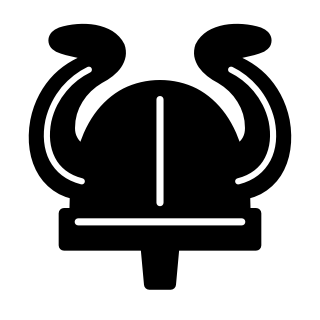
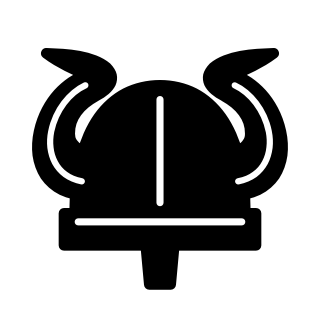
Art: shorter chariot pole and cavalry pennant, pointed berserker horns; round 14 options

diff --git a/art/source/piece_options/round14/make_round14.py b/art/source/piece_options/round14/make_round14.py
@@ -1,0 +1,85 @@
+"""Round 14 art options from Mac's reference pictures (white versions, for choosing).
+
+Necromancer: a round skull (reference 1) and a horned, angry skull (reference 5).
+Rogue: a pointed hood over a cloak split at the bottom (reference 2).
+Ram: a ram's head with a big ridged horn curling round the ear (references 3 and 4),
+on the Cburnett knight's body.  Run from this folder:  python make_round14.py
+"""
+import io
+
+HEAD = '<svg xmlns="http://www.w3.org/2000/svg" width="45" height="45" viewBox="0 0 45 45"><g stroke="#000" stroke-width="1.5" stroke-linecap="round" stroke-linejoin="round" fill="#fff">'
+TAIL = "</g></svg>\n"
+
+def mirror(body):
+    return '<g transform="translate(45,0) scale(-1,1)">%s</g>' % body
+
+OPTIONS = {}
+
+# --- Necromancer -----------------------------------------------------------------------
+ROUND_SKULL = ('<path d="M 8.5,21.5 C 8.5,11 15,5 22.5,5 C 30,5 36.5,11 36.5,21.5 C 36.5,26.5 35.5,29.5 33,31 L 29.5,31 '
+               'L 29.5,36.5 C 29.5,37.8 28.6,38.8 27.3,38.8 L 17.7,38.8 C 16.4,38.8 15.5,37.8 15.5,36.5 L 15.5,31 L 12,31 '
+               'C 9.5,29.5 8.5,26.5 8.5,21.5 Z"/>')
+ROUND_TEETH = '<path d="M 18.8,35.5 L 18.8,38.8 M 21.3,35.5 L 21.3,38.8 M 23.8,35.5 L 23.8,38.8 M 26.3,35.5 L 26.3,38.8" fill="none" stroke-width="1.2"/>'
+ROUND_NOSE = '<path d="M 22.5,24.5 L 20.3,29.3 C 21.5,30 23.5,30 24.7,29.3 Z" fill="#000"/>'
+OPTIONS["necromancer_round_skull"] = (
+    ROUND_SKULL
+    + '<circle cx="16" cy="20.5" r="4.4" fill="#000"/><circle cx="29" cy="20.5" r="4.4" fill="#000"/>'
+    + ROUND_NOSE + ROUND_TEETH
+)
+OPTIONS["necromancer_round_skull_shaded"] = (
+    ROUND_SKULL
+    + '<path d="M 13,10.5 C 10.5,14 10,19 11,24 C 11.5,27 13,29 15,30" fill="none" stroke-width="1"/>'
+    + '<circle cx="16" cy="20.5" r="4.4" fill="#000"/><circle cx="29" cy="20.5" r="4.4" fill="#000"/>'
+    + '<path d="M 13.5,19.5 C 14,18 15.5,17.3 17,17.6 M 26.5,19.5 C 27,18 28.5,17.3 30,17.6" fill="none" stroke="#fff" stroke-width="1"/>'
+    + ROUND_NOSE + ROUND_TEETH
+)
+HORN = '<path d="M 14.5,16.5 C 9,15 5.5,10.5 6.5,6 C 7.3,3.2 10,2.4 13,3 C 10.3,4.6 9.6,7.4 10.6,10 C 11.6,12.4 14,13.6 16.3,13.8 Z"/>'
+ANGRY_SKULL = ('<path d="M 11.5,22.5 C 11.5,15 16.5,11 22.5,11 C 28.5,11 33.5,15 33.5,22.5 C 33.5,25.5 32.5,27.5 33,29.5 '
+               'C 33.8,32 32.8,34.5 30,35 L 28.5,35 L 28.5,38.8 L 16.5,38.8 L 16.5,35 L 15,35 C 12.2,34.5 11.2,32 12,29.5 '
+               'C 12.5,27.5 11.5,25.5 11.5,22.5 Z"/>')
+ANGRY_FACE = ('<path d="M 15,22.5 L 21,24 C 21,26.8 19.6,28.3 17.8,28.3 C 15.8,28.3 14.6,25.8 15,22.5 Z" fill="#000"/>'
+              '<path d="M 30,22.5 L 24,24 C 24,26.8 25.4,28.3 27.2,28.3 C 29.2,28.3 30.4,25.8 30,22.5 Z" fill="#000"/>'
+              '<path d="M 21.2,32 L 22.5,29.8 L 23.8,32" fill="none" stroke-width="1.3"/>'
+              '<path d="M 19.5,35.5 L 19.5,38.8 M 22.5,35.5 L 22.5,38.8 M 25.5,35.5 L 25.5,38.8" fill="none" stroke-width="1.2"/>')
+CHEEKS = ('<path d="M 14.2,20 C 13.8,18.6 14.6,17.6 15.8,17.4 M 30.8,20 C 31.2,18.6 30.4,17.6 29.2,17.4 '
+          'M 14.5,33 C 14.3,31.6 15,30.6 16.2,30.4 M 30.5,33 C 30.7,31.6 30,30.6 28.8,30.4" fill="none" stroke-width="1"/>')
+OPTIONS["necromancer_horned_skull"] = HORN + mirror(HORN) + ANGRY_SKULL + ANGRY_FACE + CHEEKS
+OPTIONS["necromancer_horned_skull_plain"] = HORN + mirror(HORN) + ANGRY_SKULL + ANGRY_FACE
+
+# --- Rogue: pointed hood over a cloak split at the bottom ---------------------------------
+CLOAK_SPLIT = '<path d="M 13.5,28.5 C 9,30.5 7.5,34 5.5,40.5 L 20,40.5 L 22.5,33.5 L 25,40.5 L 39.5,40.5 C 37.5,34 36,30.5 31.5,28.5 Z"/>'
+HOOD_POINTED = '<path d="M 22.5,3.5 C 27,8 32.5,13 33.5,19.5 C 34.2,24.5 32.5,28 29.5,30 L 15.5,30 C 12.5,28 10.8,24.5 11.5,19.5 C 12.5,13 18,8 22.5,3.5 Z"/>'
+OPENING = '<path d="M 22.5,12.5 C 25.8,15.3 28.8,18 28.8,21.8 C 28.8,24.8 26.8,26.5 24.6,26.5 L 20.4,26.5 C 18.2,26.5 16.2,24.8 16.2,21.8 C 16.2,18 19.2,15.3 22.5,12.5 Z" fill="#000"/>'
+OPTIONS["rogue_hood_cloak"] = CLOAK_SPLIT + HOOD_POINTED + OPENING
+OPTIONS["rogue_hood_cloak_rim"] = (CLOAK_SPLIT + HOOD_POINTED
+    + '<path d="M 22.5,10 C 26.8,13.5 30.8,17 30.8,22 C 30.8,26 28,28.3 25,28.3 L 20,28.3 C 17,28.3 14.2,26 14.2,22 C 14.2,17 18.2,13.5 22.5,10 Z" fill="none" stroke-width="1"/>'
+    + OPENING)
+OPTIONS["rogue_hood_cloak_folds"] = (
+    '<path d="M 13.5,28.5 C 9,30.5 7.5,34 5.5,40.5 L 39.5,40.5 C 37.5,34 36,30.5 31.5,28.5 Z"/>'
+    + '<path d="M 16,31 C 15,34 14.5,37.5 14.8,40.5 M 29,31 C 30,34 30.5,37.5 30.2,40.5 M 22.5,32 L 22.5,40.5" fill="none" stroke-width="1"/>'
+    + HOOD_POINTED + OPENING)
+
+# --- Ram: big ridged horn curling round the ear, on the Cburnett knight's body ------------
+KNIGHT_BODY = '<path d="M 22,10 C 32.5,11 38.5,18 38,39 L 15,39 C 15,30 25,32.5 23,18"/>'
+RAM_FACE = ('<path d="M 24,18 C 24.38,20.91 18.45,25.37 16,27 C 13,29 13.18,31.34 11,31 C 9,31 6,30 6,27 '
+            'C 6,23 8,18.5 11,15 C 13.5,12 17,9.5 22,10"/>'
+            '<circle cx="8.8" cy="26.3" r="0.6" fill="#000"/>'
+            '<path d="M 11.5,17.8 C 12.5,16.8 14,16.8 15,17.6" fill="none" stroke-width="1.1"/>'
+            '<ellipse cx="13.3" cy="18.6" rx="1.1" ry="0.7" fill="#000" stroke="none"/>')
+# The horn: from the top of the head it sweeps back, round and down, and curls
+# forward to end inside its own curl.
+RAM_HORN = ('<path d="M 16,11 C 20,5 28,3.8 33.5,7.5 C 38.5,11 40,18 37.5,23.5 C 35.5,28 30.5,30.2 27,28.8 '
+            'C 24,27.5 23,24.5 24.3,22 C 25.5,23.8 27.8,24.5 29.7,23.6 C 32.5,22.2 33.6,17.8 32.2,14.2 '
+            'C 30.5,10.2 25.5,9 21.5,10.4 C 19.8,11 18.6,11.8 17.6,12.8 Z"/>')
+RIDGES = ('<path d="M 21.5,6.8 L 22.6,10 M 26,5.3 L 25.8,9.2 M 30.5,6 L 28.8,9.8 M 34.8,9.3 L 31.5,12 '
+          'M 37.6,14 L 32.8,15.5 M 38.2,19.5 L 33.4,19.5 M 36.6,25 L 32.5,22.5 M 32.5,28.8 L 30.3,24.2" fill="none" stroke-width="1"/>')
+EAR = '<path d="M 23,18.5 C 25,16.5 28.3,16.8 30,18.8 C 27.8,20.5 25,20.6 23,18.5 Z" stroke-width="1.1"/>'
+OPTIONS["ram_ridged_horn"] = KNIGHT_BODY + RAM_FACE + RAM_HORN + RIDGES + EAR
+OPTIONS["ram_smooth_horn"] = KNIGHT_BODY + RAM_FACE + RAM_HORN + EAR
+OPTIONS["ram_ridged_horn_neck_lines"] = (KNIGHT_BODY
+    + '<path d="M 27,24 C 25,28 25,32 26.5,36.5 M 31,27 C 30,30.5 30.5,34 32,37.5" fill="none" stroke-width="1"/>'
+    + RAM_FACE + RAM_HORN + RIDGES + EAR)
+
+for name, body in OPTIONS.items():
+    io.open("white_%s.svg" % name, "w", encoding="utf-8", newline="").write(HEAD + body + TAIL)
+print(len(OPTIONS), "options written")

diff --git a/art/source/piece_options/make_final_wizard_berserker_chariot.py b/art/source/piece_options/make_final_wizard_berserker_chariot.py
@@ -34,9 +34,11 @@ def wizard(team):
             + (detail("M 13.5,34.5 L 31.5,34.5", line, 1) if team == "black" else ""))
 
 # --- Berserker: horned helmet; horns hug the helm and turn out at a rounded tip ------
-HORN = ("M 12.5,27.5 C 6.5,27.5 4,22.5 5,17 C 6,12 9.5,9 13.5,8 "
-        "C 11.8,7.4 9.8,7.3 8.2,6.6 C 7.2,6.1 7.4,5 8.5,4.6 C 11.5,3.6 15.6,4 16.8,6.5 "
-        "C 17.5,8.3 16,10 14,11 C 11.5,12.5 9.8,15 9.8,18 C 9.8,20.5 12,21.8 14.5,21.5 Z")
+# Lower horns that curve smoothly out to a sharp point (Mac).
+HORN = ("M 12.5,27.5 C 6.5,27.5 4.5,23 5.5,18.5 C 6.5,14 9.5,11.5 12,10.5 "
+        "C 10.5,9.8 8.5,9 6.5,7.5 "
+        "C 9.5,7.6 13,7.8 15,9.5 C 16.5,11 15.5,12.5 13.5,13.5 "
+        "C 11.2,14.8 9.8,16.5 9.8,18.8 C 9.8,20.8 12,21.8 14.5,21.5 Z")
 def berserker(team):
     fill, line = colours(team)
     horn = shape(HORN, fill)
@@ -48,8 +50,8 @@ def berserker(team):
         body += detail("M 22.5,13 L 22.5,29", "#000", 1.5)
     else:
         body += detail("M 22.5,14 L 22.5,28.5 M 11,31.2 L 34,31.2", "#fff", 1)
-        body += detail("M 11.5,25.5 C 7.5,24.5 6,21 6.8,17 C 7.6,13.5 10,11 12.5,9.8", "#fff", 0.9)
-        body += mirror(detail("M 11.5,25.5 C 7.5,24.5 6,21 6.8,17 C 7.6,13.5 10,11 12.5,9.8", "#fff", 0.9))
+        body += detail("M 11.5,25.5 C 7.8,24.8 6.6,21.5 7.2,18.5 C 7.8,15.5 9.8,13 12,12", "#fff", 0.9)
+        body += mirror(detail("M 11.5,25.5 C 7.8,24.8 6.6,21.5 7.2,18.5 C 7.8,15.5 9.8,13 12,12", "#fff", 0.9))
     return body
 
 # --- Chariot: side view; the body overhangs behind the wheel, a thick stepped pole ----
@@ -65,8 +67,8 @@ def wheel(cx, cy, r, spokes, fill, line, rim=2.6):
     return out
 # The pole: a thick band with a step and a rounded end, like the ribbon on the
 # Cburnett bishop's base.
-POLE = ("M 28,29.5 L 33.5,29.5 C 34.3,29.5 34.8,29 34.8,28.2 L 34.8,27.5 L 41.5,27.5 "
-        "C 42.5,27.5 43.2,28.2 43.2,29 C 43.2,29.8 42.5,30.5 41.5,30.5 L 37.6,30.5 L 37.6,31 "
+POLE = ("M 28,29.5 L 33.5,29.5 C 34.3,29.5 34.8,29 34.8,28.2 L 34.8,27.5 L 38.5,27.5 "
+        "C 39.5,27.5 40.2,28.2 40.2,29 C 40.2,29.8 39.5,30.5 38.5,30.5 L 37.6,30.5 L 37.6,31 "
         "C 37.6,32 37,32.5 36.2,32.5 L 28,32.5 Z")
 def chariot(team):
     fill, line = colours(team)

diff --git a/art/source/piece_options/make_final_archer_cavalry.py b/art/source/piece_options/make_final_archer_cavalry.py
@@ -36,7 +36,7 @@ black_archer = (line(BOW, 6.5, "#000") + line("M 9.5,14.5 C 22,3 41,22 30.5,35",
 LANCE = "M 40,41 L 14.5,7.5"
 LANCE_TIP = "M 16,5.5 L 11.5,4 L 12.5,9 Z"
 # Sticks out well behind the horse so it can be seen (Mac).
-PENNANT = "M 16.5,9.5 L 1.5,8.5 L 6,12 L 1.5,15.5 L 19.5,15 Z"
+PENNANT = "M 16.5,9.5 L 4,8.8 L 8,12 L 4,15.3 L 19.5,15 Z"
 NECK = "M 22,10 C 32.5,11 38.5,18 38,39 L 15,39 C 15,30 25,32.5 23,18"
 HEAD_PATH = ("M 24,18 C 24.38,20.91 18.45,25.37 16,27 C 13,29 13.18,31.34 11,31 C 9.958,30.06 12.41,27.96 11,28 "
              "C 10,28 11.19,29.23 10,30 C 9,30 5.997,31 6,26 C 6,24 12,14 12,14 C 12,14 13.89,12.1 14,10.5 "
@@ -58,7 +58,7 @@ white_cavalry = (line(LANCE, 4.5, "#000") + line(LANCE, 2, "#fff")
 black_cavalry = (line(LANCE, 4.5, "#000") + line("M 37.5,37.7 L 16.5,10", 0.9, "#fff")
                  + '<path d="%s" fill="#000"/>' % LANCE_TIP
                  + '<path d="%s" fill="#000"/>' % PENNANT
-                 + line("M 15.5,12 L 5,11.8", 0.9, "#fff")
+                 + line("M 15.5,12 L 7,11.9", 0.9, "#fff")
                  + mirror(black_horse))
 
 for name, body in {"white_archer": white_archer, "black_archer": black_archer,

diff --git a/CLAUDE.md b/CLAUDE.md
@@ -116,7 +116,7 @@ Steps 1–4 DONE: army data and rules, army builder screen, saving up to 10 armi
 * Necromancer (NC, 3, king steps, can't capture (MOVE_ONLY), Special Ability "Raise Dead"): once per game it leaves the board and one of your lost pieces (not pawn types, not Necromancers) returns on its square as if the game had just started (shield back, ability unused; has_moved = true so it can't castle). Picture: [necromancer] [lightning] [raised piece].
 * Engine: abilities are ordinary moves (`Move.ability`, `raised`, `raised_from_lost`; `Move.to_text()` "a1!c3" / "d2!=Q"; text SAN "Axc3!" / "NC!=Q"); `Piece.ability_used` (FEN mark ^ after the piece); `GameState.lost[team]` (captured pieces and dead Rams; attack tables include lost types so raised pieces are covered); `MoveGenerator.raisable_defs`. A side with an unused Raise Dead and something to raise is never an insufficient-material draw; pieces that can't capture are ignored when only they and kings remain.
 * UI (Mac's design): selecting a piece with an unused ability shows a button named after it (lightning icon) beside the board (`game.ability_button`). Crack Shot: the button switches the board to aiming (`BoardView.aim_ability()`, gold rings on targets); a normal tap on a target is still a normal capture. Raise Dead: the button opens the picker (shared with promotion) showing the lost pieces.
-* Art (second batch): Archer = round 11 archer_white_arrow (bow arcing to the top-right, arrow pointing at the top-right corner, from Mac's reference); Cavalry = round 11 cavalry_lance_behind (the knight mirrored to face right, lance rising behind to the top-left with a pennant), lance shortened so its tip clears the top of the square. Final SVGs made by `art/source/piece_options/make_final_archer_cavalry.py` into `art/source/pieces/`. Cavalry pennant sticks out behind the horse. Wizard = round 12 wizard_ball_wide_round (crystal ball on a short wide rounded stand); Berserker = round 12 berserker_bent_b with rounded horn tips; Chariot = round 13 chariot_ref2 with the body moved back past the wheel and a thick stepped pole like the bishop's base ribbon. Made by `make_final_wizard_berserker_chariot.py`. Still to choose: Ram, Necromancer, Rogue (round 13 options).
+* Art (second batch): Archer = round 11 archer_white_arrow (bow arcing to the top-right, arrow pointing at the top-right corner, from Mac's reference); Cavalry = round 11 cavalry_lance_behind (the knight mirrored to face right, lance rising behind to the top-left with a pennant), lance shortened so its tip clears the top of the square. Final SVGs made by `art/source/piece_options/make_final_archer_cavalry.py` into `art/source/pieces/`. Cavalry pennant sticks out behind the horse. Wizard = round 12 wizard_ball_wide_round (crystal ball on a short wide rounded stand); Berserker = round 12 berserker_bent_b with lower horns curving smoothly to sharp points; Chariot = round 13 chariot_ref2 with the body moved back past the wheel and a short thick stepped pole like the bishop's base ribbon. Still to choose from round 14 (from Mac's references): Ram, Necromancer, Rogue. Made by `make_final_wizard_berserker_chariot.py`. Still to choose: Ram, Necromancer, Rogue (round 13 options).
 * Mac: "any piece that can jump uses the Jump keyword" (explanation text broadened); all pawn types show the Promote keyword on their card; special abilities are written with * for now (clashes with the shield-break * — Mac to design notation for every non-normal move).
 * Piece card: "Special Rule" (`PieceDef.special_rule`, text in the .tres; the cannon's moved there) and "Special Ability" (`PieceDef.ability_name` / `ability_text`) sections. Pieces without art show their letters (`board_view_test.ART_TO_COME` lists them).
 * Attack detection: `MoveGenerator.attack_table` returns [lines, unusual]; leaping/path rules (`MoveRule.is_unusual()`) are checked from each such piece (`_rule_reaches`). `movement_pieces_test.test_attack_detection_matches_captures` cross-checks attacks against generated captures.
